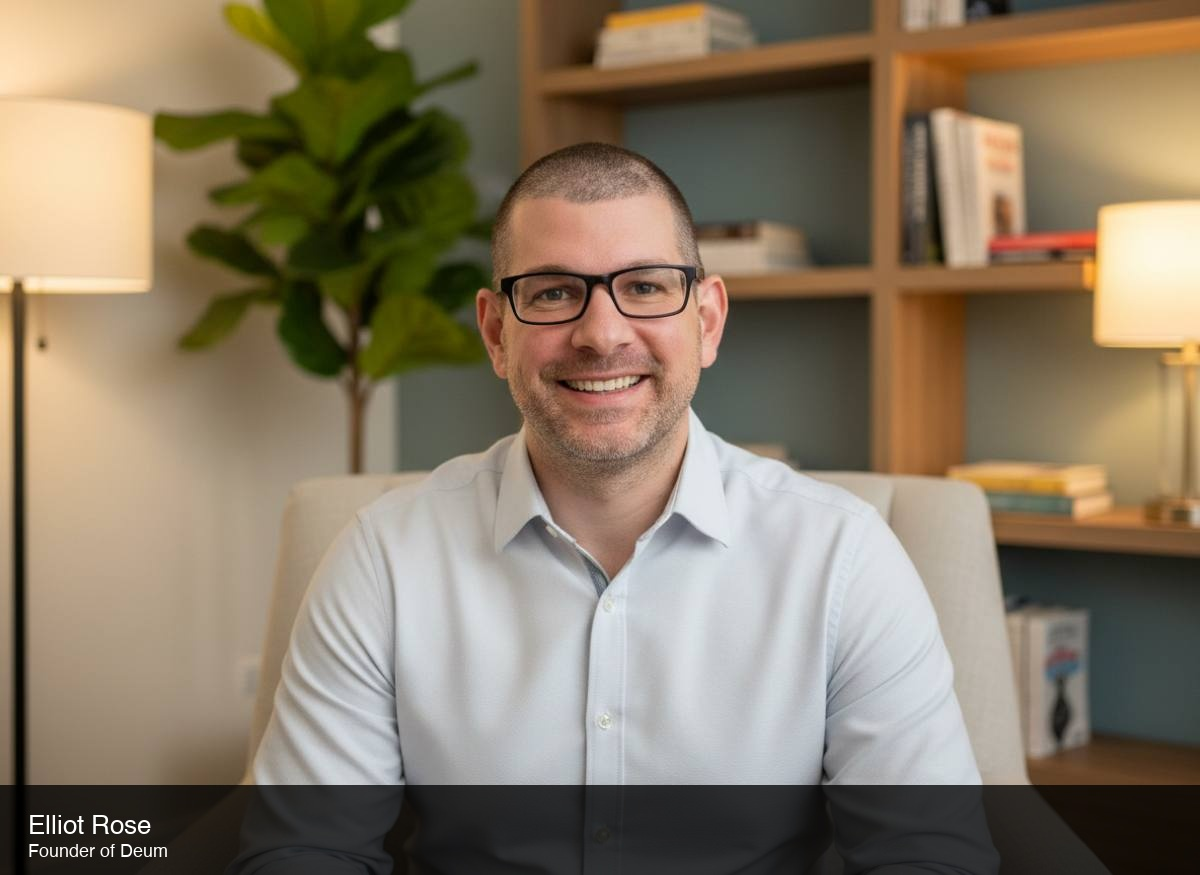
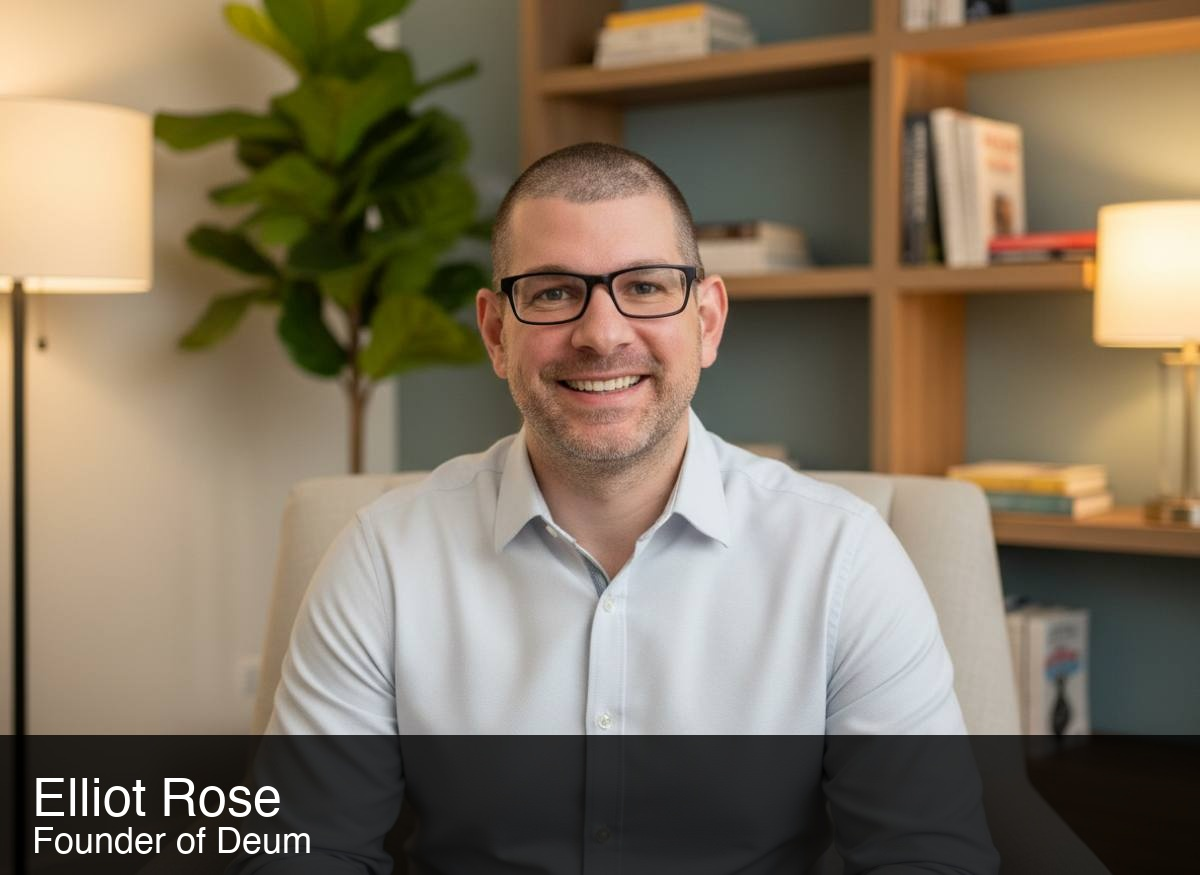
fix: MUCH larger text on image + smaller image size
1. ✅ Image: 360px → 320px (better wrapping)
2. ✅ Name bar: 90px → 140px (room for big text)
3. ✅ Fonts: 26/18 → 52/36 (2x bigger!)
4. ✅ Much more readable text on image

Text is now HUGE and readable! 🔍

Changed region(s): [[0.0, 0.8331, 1.0, 0.9874]]

diff --git a/app/about/page.tsx b/app/about/page.tsx
@@ -33,14 +33,14 @@ export default function AboutPage() {
             {/* Newspaper-style layout with image float */}
             <div className="space-y-4 text-lg text-[#A0A0A0] leading-relaxed">
               {/* Founder photo - floats left on desktop, full width on mobile */}
-              <div className="w-full md:w-[360px] md:float-left md:mr-8 mb-6 rounded-2xl overflow-hidden">
+              <div className="w-full md:w-80 md:float-left md:mr-8 mb-6 rounded-2xl overflow-hidden">
                 <Image 
                   src="/images/elliot-founder-labeled.jpg" 
                   alt="Founder of Deum" 
-                  width={360}
-                  height={360}
+                  width={320}
+                  height={320}
                   className="object-cover w-full"
-                  sizes="(max-width: 768px) 100vw, 360px"
+                  sizes="(max-width: 768px) 100vw, 320px"
                 />
               </div>
 
